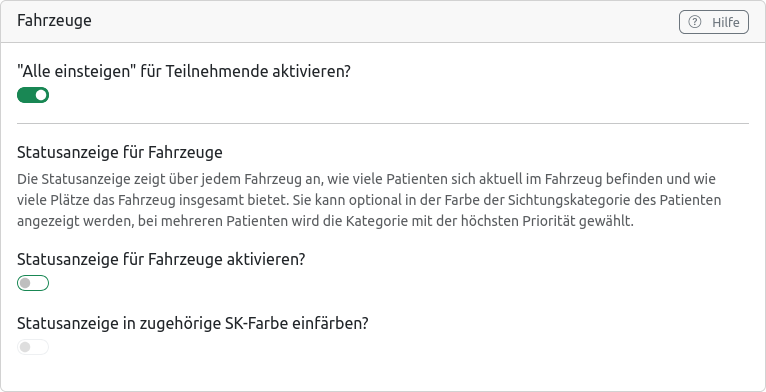
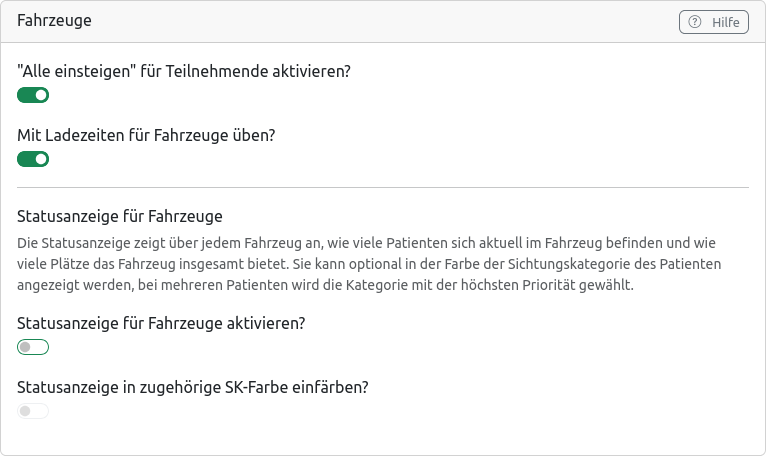
Update changelog and docs

Changed region(s): [[0.0, 0.0, 1.0, 0.9184]]

diff --git a/CHANGELOG.md b/CHANGELOG.md
@@ -7,6 +7,10 @@ and this project does **not** adhere to [Semantic Versioning](https://semver.org
 
 ## [Unreleased]
 
+### Added
+
+- Vehicles can have load times per patient. While a patient is being loaded into the vehicle, it cannot be moved or transferred and no second patient can be loaded at the same time. Move times can be configured per vehicle template and can be disabled globally. While the load time is running, a countdown is shown above the vehicle.
+
 ## [0.14.0] - 2026-06-11
 
 ### Added

diff --git a/docs/src/2_exercises/1_general.md b/docs/src/2_exercises/1_general.md
@@ -188,6 +188,8 @@ In diesem Bereich werden die fahrzeugbezogenen Aspekte der Übung konfiguriert (
 > [!TIP]
 > Diese Option kann gut mit der [Karten-Einstellung](#karte) <kbd>Markiere zusammengehörende Elemente auf der Karte</kbd> kombiniert werden, sodass Teilnehmende das zugehörige Personal und Material einfacher oder weniger einfach finden können.
 
+<kbd>**Mit Ladezeiten für Fahrzeuge üben?**</kbd> erlaubt es, die Funktion Ladezeiten für die gesamte Übung auszuschalten, sodass nicht bei allen Fahrzeugvorlagen die Ladezeit auf 0 gestellt werden muss. Die Funktion Ladezeiten ist bei den [Fahrzeugen](3_exercise_elements.html#einstellungsmöglichkeiten-3) genauer beschrieben
+
 Zudem kann in diesem Bereich eine optionale Statusanzeige für [Fahrzeuge](3_exercise_elements.md#fahrzeuge-mit-personal-und-material) aktiviert werden.
 
 Sofern aktiviert, zeigt die Statusanzeige über jedem Fahrzeug an, wie viele Patienten sich aktuell im Fahrzeug befinden und wie viele Plätze es insgesamt bietet. Sie kann optional in der Farbe der Sichtungskategorie des Patienten angezeigt werden, bei mehreren Patienten wird die Kategorie mit der höchsten Priorität gewählt.

diff --git a/docs/src/2_exercises/3_exercise_elements.md b/docs/src/2_exercises/3_exercise_elements.md
@@ -115,6 +115,7 @@ Das ausgestiegene Personal und Material können auf der Karte gleichermaßen per
 - <kbd>**Bildadresse**</kbd>: URL zu einer Bilddatei. Das Bild sollte idealerweise eine Vektorgrafik (`.svg`) mit transparentem Hintergrund sein.
 - <kbd>**Bildhöhe**</kbd>: Höhe des Bildes in Punkten, wobei 100 ca. der Höhe eines normalen Sprinter-RTWs entspricht. Die Breite wird analog skaliert.
 - <kbd>**Patientenkapazität**</kbd>: Anzahl der Patienten, die im Fahrzeug transportiert werden können. Kann 0 sein für Fahrzeuge, die keine Patienten transportieren können (z.B. Führungsfahrzeuge).
+- <kbd>**Ladezeit pro Patient**</kbd>: Wie lange es dauert, einen Patienten in dieses Fahrzeug zu laden. Ist eine Zeit größer 0 eingestellt, kann immer nur ein Patient gleichzeitig eingeladen werden und während der Ladezeit kann das Fahrzeug nicht bewegt werden (inklusive Transfers und Fahrt zum Krankenhaus). Um Ladezeiten für diesen Typ Fahrzeug zu deaktivieren, kann hier 0 eingetragen werden. Alternativ können Ladezeiten [in den Einstellungen](1_general.html#fahrzeuge) für die gesamte Übung deaktiviert werden.
 - <kbd>**Materialien**</kbd>: Hier können Materialien hinzugefügt oder entfernt werden. Standardmäßig steht _Standardmaterial_ (entspricht einem Rettungsdienst-Rucksack) und _erweitertes Material_ (entspricht einer Gruppe GW-San-Kisten und ermöglicht die Behandlung vieler Patienten) zur Verfügung.
 - <kbd>**Personal**</kbd>: Hier kann Personal hinzugefügt oder entfernt werden. Standardmäßig stehen die medizinischen Qualifikationsstufen _Sanitäter_ (ehrenamtliche Sanitätshelfer ohne rettungsdienstliche Qualifikation), _Rettungssanitäter_, _Notfallsanitäter_, _Notarzt_ und _Gruppenführer_ (hat keine Behandlungskapazität) zur Verfügung.
 